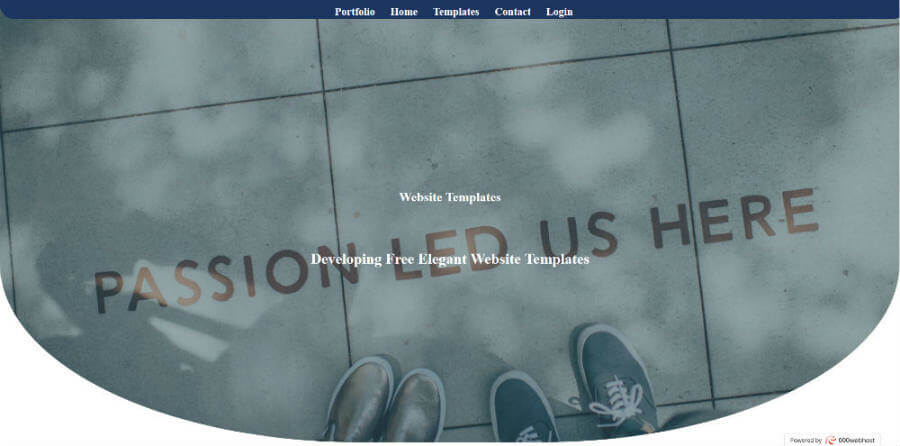
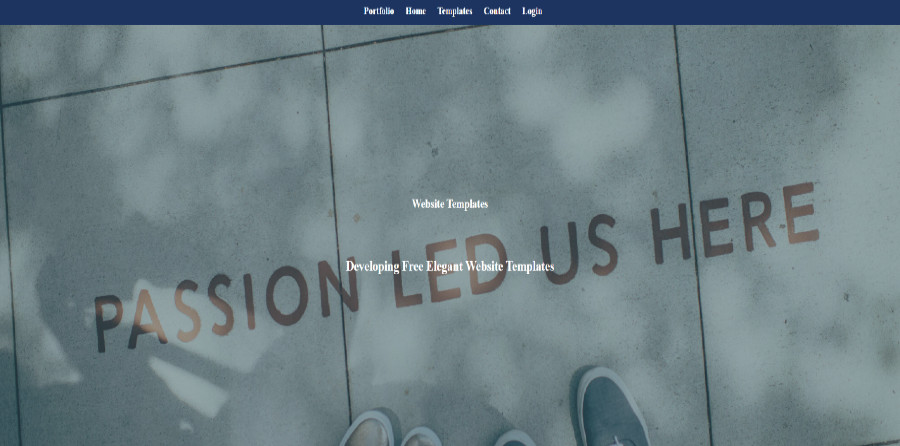
web template design
updated we template design to make it look better.

diff --git a/portfolio/webtemplate/public/styles.css b/portfolio/webtemplate/public/styles.css
@@ -36,8 +36,7 @@ nav {
 	background-color: var(--outline-color);
 	padding: 1rem;
 	font-size: 1.25rem;
-  border-radius: 0 0 30px 30px;
-  z-index: 10;
+  	z-index: 10;
 }
 
 nav ul {
@@ -74,32 +73,29 @@ h1 {
 .hero1 {
   background-image: linear-gradient( var(--outline-color-rgba), var(--outline-color-rgba)), url(images/hero2-passon-led-us-here.jpg);
 	background-size: cover;
-	height: 100vh;
+	height: 103vh;
 	background-attachment: fixed;
 	background-position: center;
-  border-radius: 0 0 40% 40%;
 }
 .hero2 {
   background-image: linear-gradient( var(--outline-color-rgba), var(--outline-color-rgba)), url(images/hero1-wireframe.jpg);
 	background-size: cover;
-	height: 100vh;
+	height: 103vh;
 	background-attachment: fixed;
 	background-position: center;
-  border-radius: 0 0 40% 40%;
 }
 
 .hero3 {
   background-image: linear-gradient( var(--outline-color-rgba), var(--outline-color-rgba)), url(images/hero3-telephones.jpg);
 	background-size: cover;
-	height: 100vh;
+	height: 103vh;
 	background-attachment: fixed;
 	background-position: center;
-  border-radius: 0 0 40% 40%;
 }
 .hero-text {
   text-align: center;
   position: absolute;
-  top: 50%;
+  top: 100%;
   left: 50%;
   transform: translate(-50%, -50%);
   font-weight: bold;
@@ -109,8 +105,8 @@ h1 {
 .section-light {
 	padding: var(--space-around);
 	text-align: center;
-	display: flex;
 }
+
 
 .section-dark {
 	padding: var(--space-around);
@@ -124,12 +120,7 @@ section img {
 }
 
 section p {
-	flex-grow: 3;
-}
-
-/*elimated the p from creating space between sections*/
-section p {
-	margin: 0;
+	line-height: 300%;
 }
 
 /*form*/
@@ -143,13 +134,13 @@ form {
   border-radius: 15px;
 }
 legend{
-	background-color: var(--outline-color);
-	color: var(--section-light);
-	margin-bottom: var(--space-around);
-  border-radius: 15px;
+	color: var(--outline-color);
+	margin-bottom: calc( var(--space-around) *2 );
+	font-weight: bold;
 }
 label{
   display: block;
+  margin-top: 3rem;
 }
 input {
   width: 80%;
@@ -166,6 +157,8 @@ input {
   border: none;
   height: 3rem;
   font-size: 1.5rem;
+  max-width: 500px;
+  margin: 1rem;
 }
 form span {
 	font-size: .5rem;
@@ -175,13 +168,15 @@ form a {
 }
 .register_btn{
   background-color: var(--accent-color);
-  color: var(--section-light);
-  width: 80%;
-  height: 3rem;
+  max-width: 500px;
+  padding: .25rem;
   border-radius: 30px;
   display: block;
   margin: auto;
   font-size: 1.5rem;
+}
+.register_btn a {
+	color: var(--section-light);
 }
 .error{
 	background-color: black;
@@ -192,12 +187,10 @@ footer {
 	height: 40px;
 	background-color: var(--outline-color);
 	color: var(--section-light);
-  border-radius: 30px 30px 0 0;
 }
 
 footer a {
 	color: var(--section-light);
-  border-radius: 15px 15px 0 0;
 }
 /*On tablet and bigger */
 @media only screen and (min-width: 500px){
@@ -209,13 +202,13 @@ footer a {
         margin-bottom: -50px;
   }
 	nav {
-		padding: 0;
+		padding: .25rem;
 		width: 100vw;
-		height: 40px;
 		text-align: center;
 		position: fixed;
 		top: 0;
 		background-color: var(--outline-color);
+
 
 	}
 
@@ -237,6 +230,9 @@ footer a {
 		font-weight: bold;
 		line-height: 40px;
 
+	}
+	.hero-text {
+		top: 50%;
 	}
 	main{
 		padding-top: 40px;

diff --git a/portfolio/webtemplate/public/index.php b/portfolio/webtemplate/public/index.php
@@ -11,13 +11,22 @@ include_once("../private/shared/header.php");
 			<h1>Developing Free Elegant Website Templates</h1>
 	</div>
 </div>
-<section class="section-light">
+
+<section class="section-light" >
 	<p>Would you like to get free elegant website templates? Join us for outstanding products that serve you and your company!</p>
-	<div style="width: 50vw"><a class="register_btn" href="https://jnmportfolio.000webhostapp.com/portfolio/webtemplate/public/register.php">Register Here</a></div>
+
+	<div class="register_btn">
+		<a  href="https://jnmportfolio.000webhostapp.com/portfolio/webtemplate/public/register.php">Register Here</a>
+	</div>
+
 </section>
+
 <section class="section-light">
+
 	<p>Website Templates is a secure document sharing platform. It has best practices for protection against cross site scripting and html injection. This website was a journey where the developer learned how to access a mysql database securely by using myqsli api with php7. Look around and to see all the essential skills and proven techniques the developer learned!</p>
+
 </section>
+
 <?php
 include_once("../private/shared/footer.php");
 ?>

diff --git a/portfolio/webtemplate/public/login.php b/portfolio/webtemplate/public/login.php
@@ -30,15 +30,24 @@ if (is_post_request()){
 	<div class="login_errors"><?php echo $errors; ?></div>
 
 	<form action="login.php" method="post">
+
 		<legend>Enter Username and Password</legend>
-		<label for="Email">Email(username):</label>
+
+		<label for="Email">Email( User Name ):</label>
 			<input name="email" type="text" placeholder="Email" maxlength="75"> <br>
+
 		<label for="password">Password:</label>
-			<input placeholder="password" name="password" type="password" maxlength="25"> <br> <br>
+			<input placeholder="password" name="password" type="password" maxlength="25"> <br>
+
 		<input class="submit" name="login" type="submit" value="Login">
 		<br>
-		<br>
-		<div><a class="register_btn" href="https://jnmportfolio.000webhostapp.com/portfolio/webtemplate/public/register.php">Register Here</a></div>
+
+		<div class="register_btn">
+
+			<a  href="https://jnmportfolio.000webhostapp.com/portfolio/webtemplate/public/register.php">Register Here</a>
+
+		</div>
+
 	</form>
 
 </section>

diff --git a/portfolio/webtemplate/public/contact.php b/portfolio/webtemplate/public/contact.php
@@ -53,13 +53,13 @@ if (is_post_request()){
 		<input placeholder="Email" type="email" name="email"maxlength="75"> <br>
 
 	<label for="firstname">First Name:</label>
-		<input placeholder="Firstname" name="firstname" type="text" maxlength="25"> <br> <br>
+		<input placeholder="Firstname" name="firstname" type="text" maxlength="25"> <br> 
 
 	<label for="lastname">Last Name:</label>
-		<input placeholder="Lastname"name="lastname" type="text" maxlength="25"> <br> <br>
+		<input placeholder="Lastname"name="lastname" type="text" maxlength="25"> <br> 
 
 	<label for="message">Message:</label>
-		<input placeholder="Message" name="msg" type="text" maxlength="175"> <br> <br>
+		<input placeholder="Message" name="msg" type="text" maxlength="175"> <br> 
 
 		<input class="submit" type="submit" value="Submit">
 	</form>

diff --git a/portfolio/webtemplate/private/shared/header.php b/portfolio/webtemplate/private/shared/header.php
@@ -15,7 +15,8 @@ ob_start();
 		<header>
 			<nav>
 				<ul>
-						<li><a href="https://jnmportfolio.000webhostapp.com/">Portfolio</a></li>
+
+					<li><a href="https://jnmportfolio.000webhostapp.com/">Portfolio</a></li>
 					<li><a href="https://jnmportfolio.000webhostapp.com/portfolio/webtemplate/public/index.php">Home</a></li>
 					<li><a href="https://jnmportfolio.000webhostapp.com/portfolio/webtemplate/public/template.php">Templates</a></li>
 					<li><a href="https://jnmportfolio.000webhostapp.com/portfolio/webtemplate/public/contact.php">Contact</a></li>
@@ -32,6 +33,7 @@ ob_start();
 					<?php if($_SESSION['admin'] ?? false){?>
 						<li><a href="https://jnmportfolio.000webhostapp.com/portfolio/webtemplate/public/admin.php">Admin</a></li>
 					<?php }?>
+					
 				</ul>
 			</nav>
 		</header>
